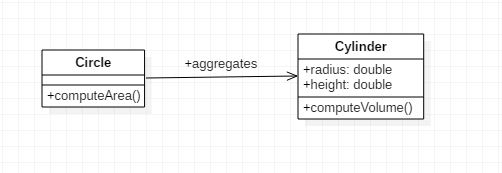
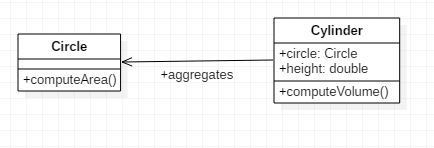
Question 3

Changed region(s): [[0.03, 0.1081, 0.9286, 0.7027], [0.3594, 0.4865, 0.5392, 0.5676]]

diff --git a/MPP/src/lesson3/labs/prob3/A/Circle.java b/MPP/src/lesson3/labs/prob3/A/Circle.java
@@ -1,29 +1,19 @@
 package lesson3.labs.prob3.A;
 
-public class Circle{
+public class Circle extends Cylinder {
 
-	private Cylinder cyl;
-	
 	public Circle(double radius) {
-		cyl = new Cylinder(radius, 0);
+		super(radius, 0);
+
 	}
-	
-	public double getRadius()
-	{
-		return this.cyl.getRadius();
+
+	public double computeArea() {
+		return Math.PI * this.getRadius() * this.getRadius();
 	}
-	
-	
+
 	@Override
-	public String toString() 
-	{
-		return String.format("Circle Id(%s) with Area (%s)" , this.hashCode(),this.computeArea()) ;
+	public String toString() {
+		return String.format("Circle Id(%s) with Area (%s)", this.hashCode(), this.computeArea());
 	}
 
-
-	public double computeArea()
-	{
-		return Math.PI*this.getRadius()*this.getRadius() ;
-	}
-	
 }

diff --git a/MPP/src/lesson3/labs/prob3/B/Cylinder.java b/MPP/src/lesson3/labs/prob3/B/Cylinder.java
@@ -1,24 +1,31 @@
 package lesson3.labs.prob3.B;
 
 public class Cylinder {
-	private  double radius;
-	private  double height;
-	
-	public double getRadius() {
-		return radius;
+
+	private Circle c;
+
+	private double height;
+
+	@Override
+	public String toString() {
+		return String.format("Cylinder radius(%s)/height(%s) ", this.getRadius(), this.height);
 	}
+
+	public double getRadius() {
+		return c.getRadius();
+	}
+
 	public double getHeight() {
 		return height;
 	}
+
 	public Cylinder(double radius, double height) {
-		 
-		this.radius = radius;
+		c = new Circle(radius);
 		this.height = height;
 	}
-	double computeArea()
-	{
-		return 2*Math.PI*this.radius*this.height; 
+
+	double computeVolume() {
+		return c.computeArea() * this.height;
 	}
-	
 
 }

diff --git a/MPP/src/lesson3/labs/prob3/B/Circle.java b/MPP/src/lesson3/labs/prob3/B/Circle.java
@@ -1,17 +1,24 @@
 package lesson3.labs.prob3.B;
 
-public class Circle  extends Cylinder{
+public class Circle{
 
+	private double radius;
+	
 	public Circle(double radius) {
-		super(radius, 0);
-		
+		this.radius = radius;
 	}
-	
-	public double computeArea()
-	{
-		return Math.PI*this.getRadius()*this.getRadius() ;
-	}
-	
 
-	
+	public double getRadius() {
+		return radius;
+	}
+
+	public double computeArea() {
+		return Math.PI * this.getRadius() * this.getRadius();
+	}
+
+	@Override
+	public String toString() {
+		return String.format("Circle Id(%s) with Area (%s)", this.hashCode(), this.computeArea());
+	}
+
 }

diff --git a/MPP/src/lesson3/labs/prob3/Additional/Cylinder.java b/MPP/src/lesson3/labs/prob3/Additional/Cylinder.java
@@ -1,13 +1,8 @@
-package lesson3.labs.prob3.A;
+package lesson3.labs.prob3.Additional;
 
 public class Cylinder {
 	private double radius;
 	private double height;
-
-	@Override
-	public String toString() {
-		return String.format("Cylinder radius(%s)/height(%s) ", this.radius, this.height);
-	}
 
 	public double getRadius() {
 		return radius;
@@ -24,7 +19,7 @@ public class Cylinder {
 	}
 
 	double computeVolume() {
-		return Math.PI * this.getRadius() * this.getRadius() * this.getHeight();
+		return 2 * Math.PI * this.radius * this.height;
 	}
 
 }

diff --git a/MPP/src/lesson3/labs/prob3/Additional/Circle.java b/MPP/src/lesson3/labs/prob3/Additional/Circle.java
@@ -1,0 +1,28 @@
+package lesson3.labs.prob3.Additional;
+
+public class Circle{
+
+	private Cylinder cyl;
+	
+	public Circle(double radius) {
+		cyl = new Cylinder(radius, 0);
+	}
+	
+	public double getRadius()
+	{
+		return this.cyl.getRadius();
+	}
+	
+	@Override
+	public String toString() 
+	{
+		return String.format("Circle Id(%s) with Area (%s)" , this.hashCode(),this.computeArea()) ;
+	}
+
+
+	public double computeArea()
+	{
+		return Math.PI*this.getRadius()*this.getRadius() ;
+	}
+	
+}

diff --git a/MPP/src/lesson3/labs/prob3/B/TestClass.java b/MPP/src/lesson3/labs/prob3/B/TestClass.java
@@ -9,7 +9,7 @@ public class TestClass {
 		
 		
 		Cylinder cilinder = new Cylinder(3.959,100);		
-		System.out.printf("We have a Cilinder (%s) with Area : %s \n",cilinder, cilinder.computeArea());
+		System.out.printf("We have a Cilinder (%s) with Volume : %s \n",cilinder, cilinder.computeVolume());
 		
 	}
 }

diff --git a/MPP/src/lesson3/labs/prob3/Additional/TestClass.java b/MPP/src/lesson3/labs/prob3/Additional/TestClass.java
@@ -1,4 +1,4 @@
-package lesson3.labs.prob3.A;
+package lesson3.labs.prob3.Additional;
 
 public class TestClass {
 
